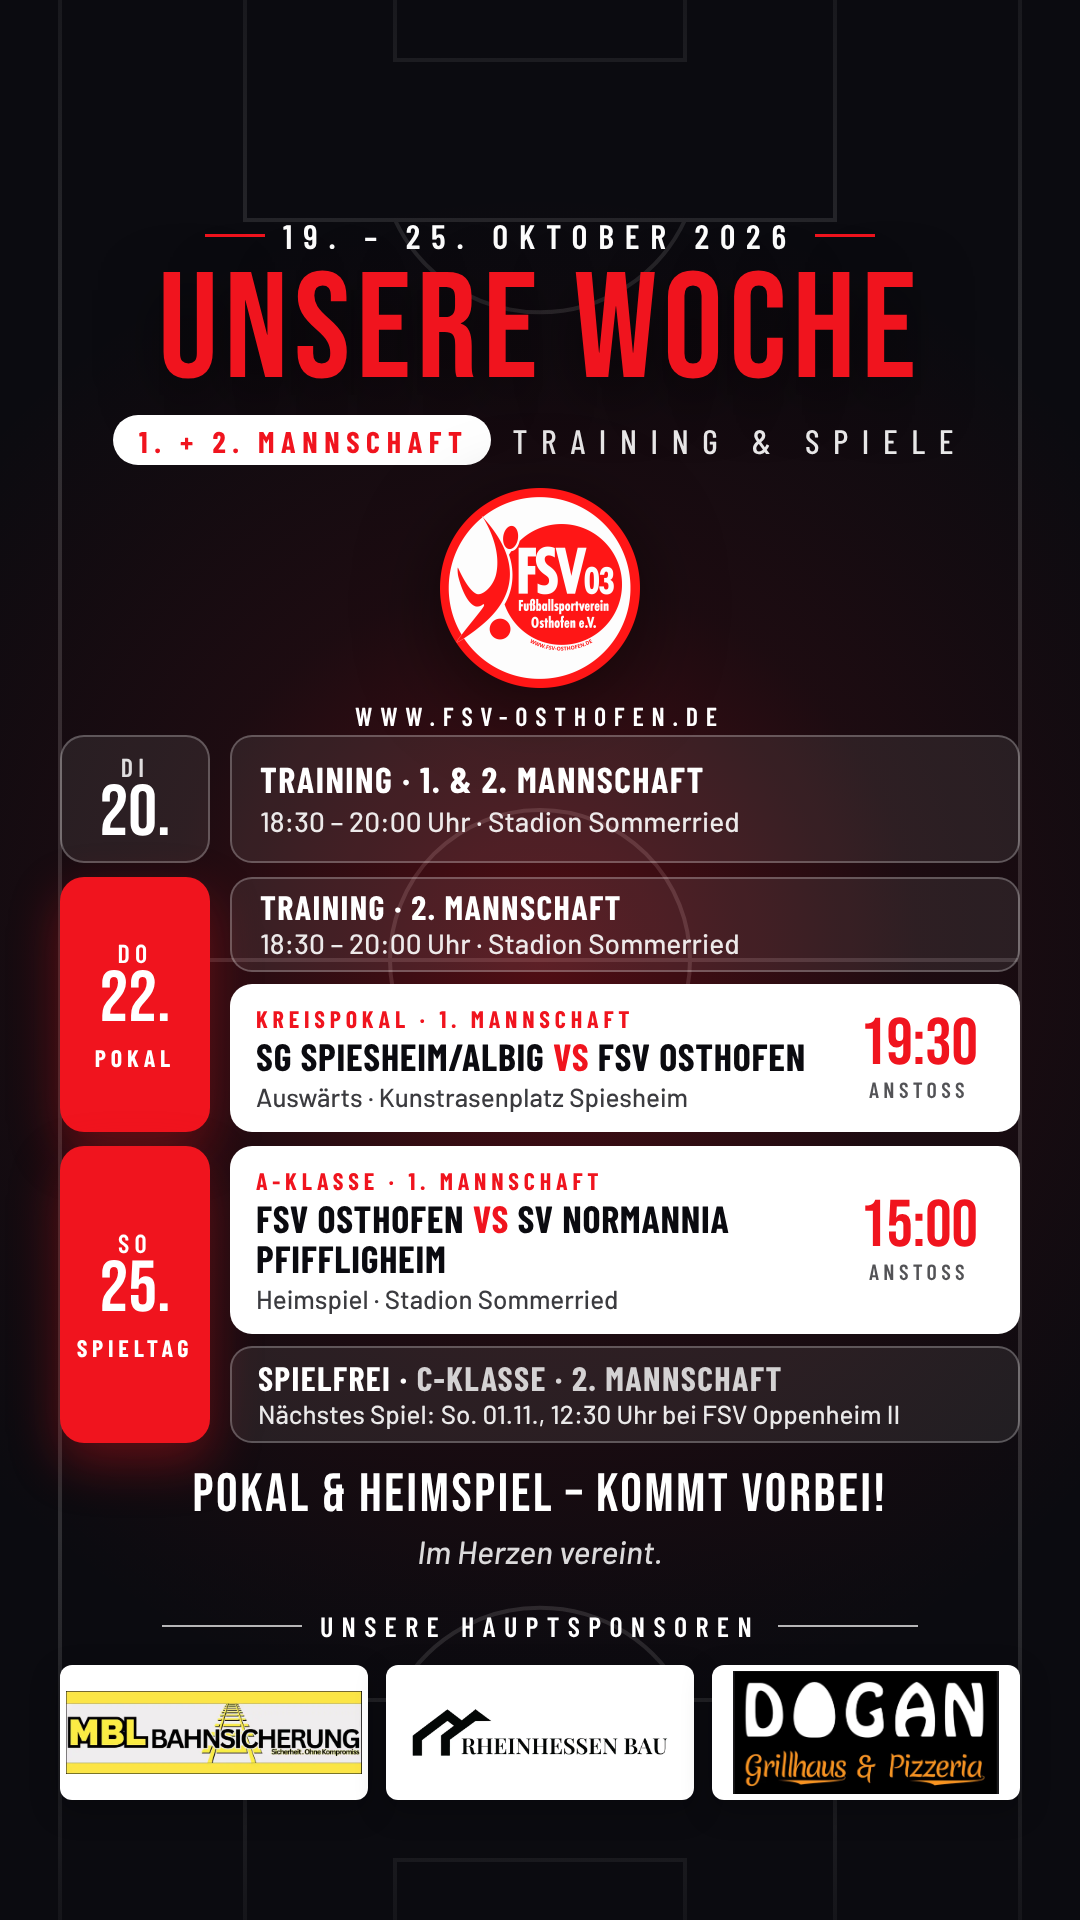
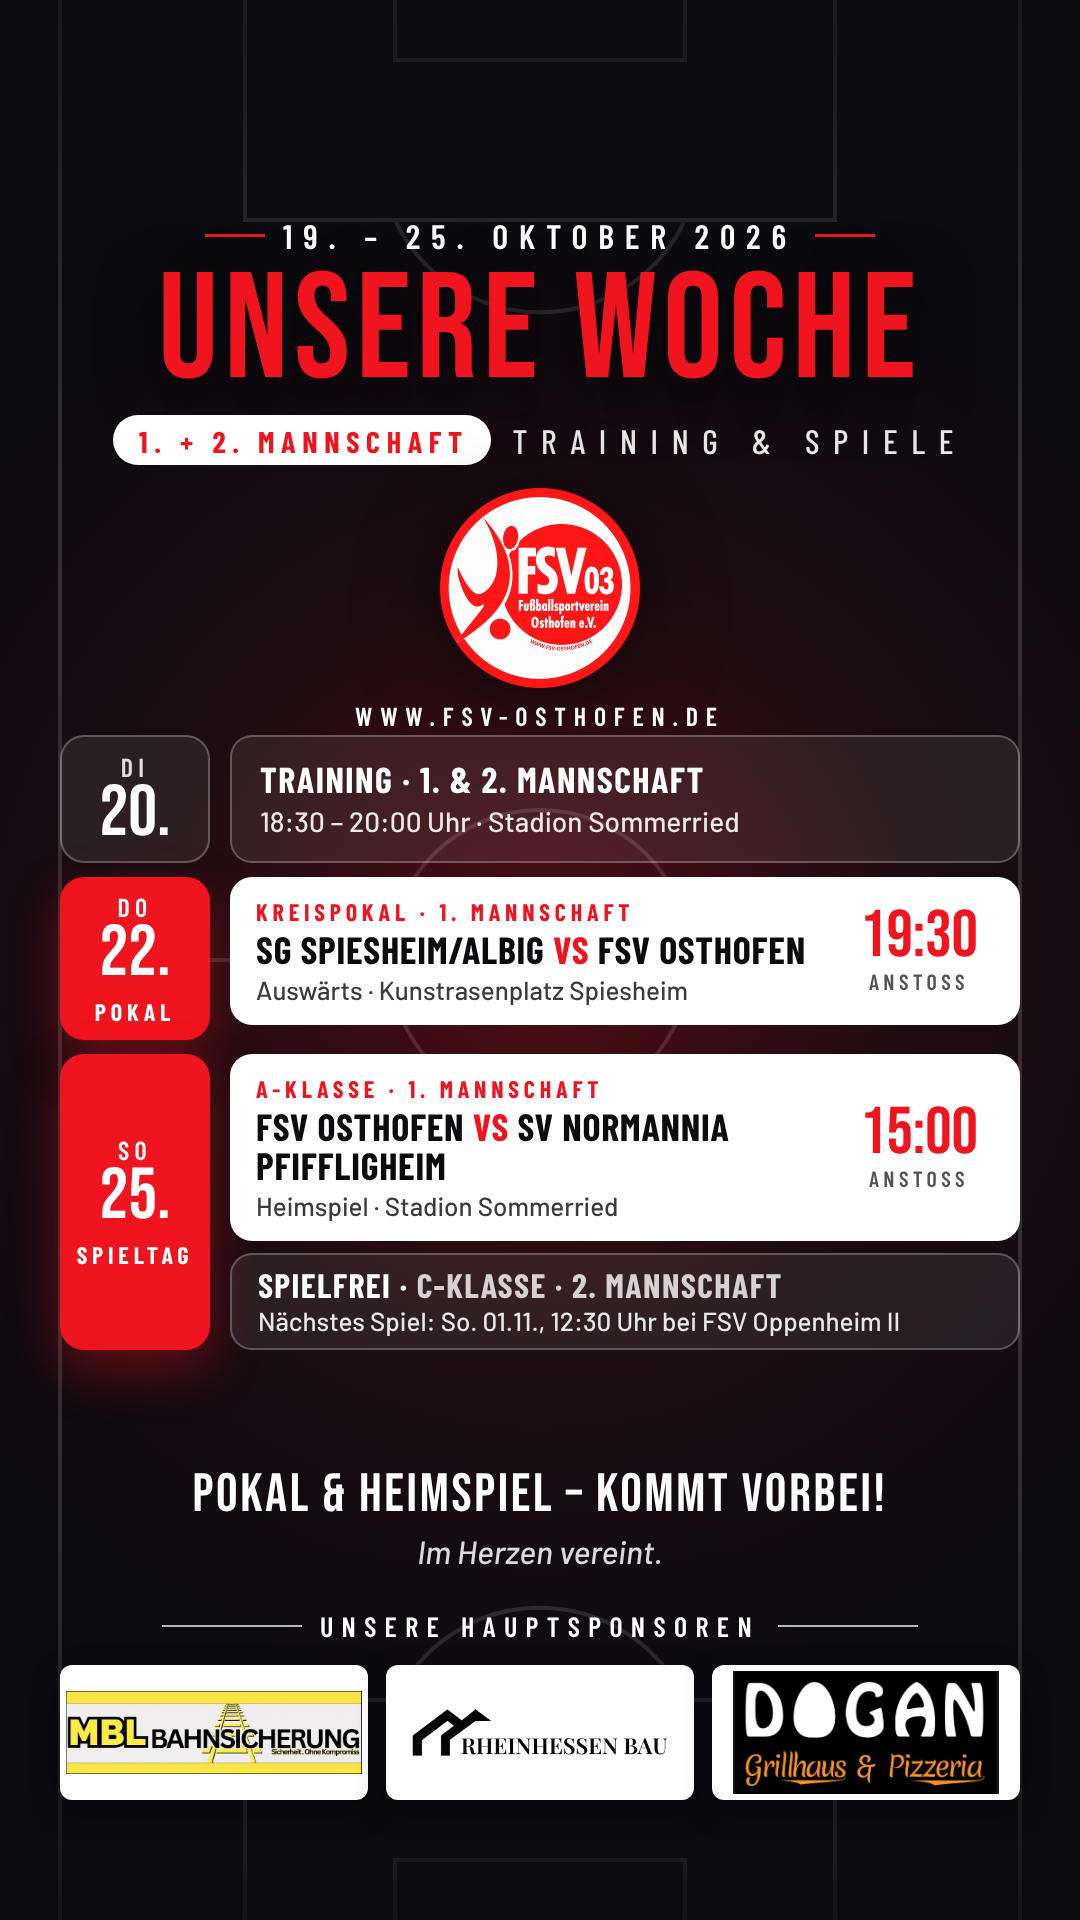
Wochenübersicht 19.–25.10.: kein Training am Pokaltag
Claude-Session: https://claude.ai/code/session_01GYhzUrbufWj8kDTUkK5SV9

Changed region(s): [[0.0306, 0.4375, 0.9472, 0.7812]]

diff --git a/index.html b/index.html
@@ -39,7 +39,7 @@ h2:first-of-type{border-top:0;padding-top:0;margin-top:0}
     <a href="img/FSV03_Wochenuebersicht_19-25-10-2026.png"><img src="img/FSV03_Wochenuebersicht_19-25-10-2026.png" alt="Wochenübersicht 19.–25. Oktober 2026"></a>
     <div class="body">
       <div class="name">Wochenübersicht 19.–25.10.</div>
-      <div class="meta">Training Di/Do · Pokal Do 22.10. · Heimspiel So 25.10. · 2. Mannschaft spielfrei</div>
+      <div class="meta">Training Di · Pokal Do 22.10. · Heimspiel So 25.10. · 2. Mannschaft spielfrei</div>
       <a class="btn" href="img/FSV03_Wochenuebersicht_19-25-10-2026.png" download>PNG herunterladen</a>
     </div>
   </div>
